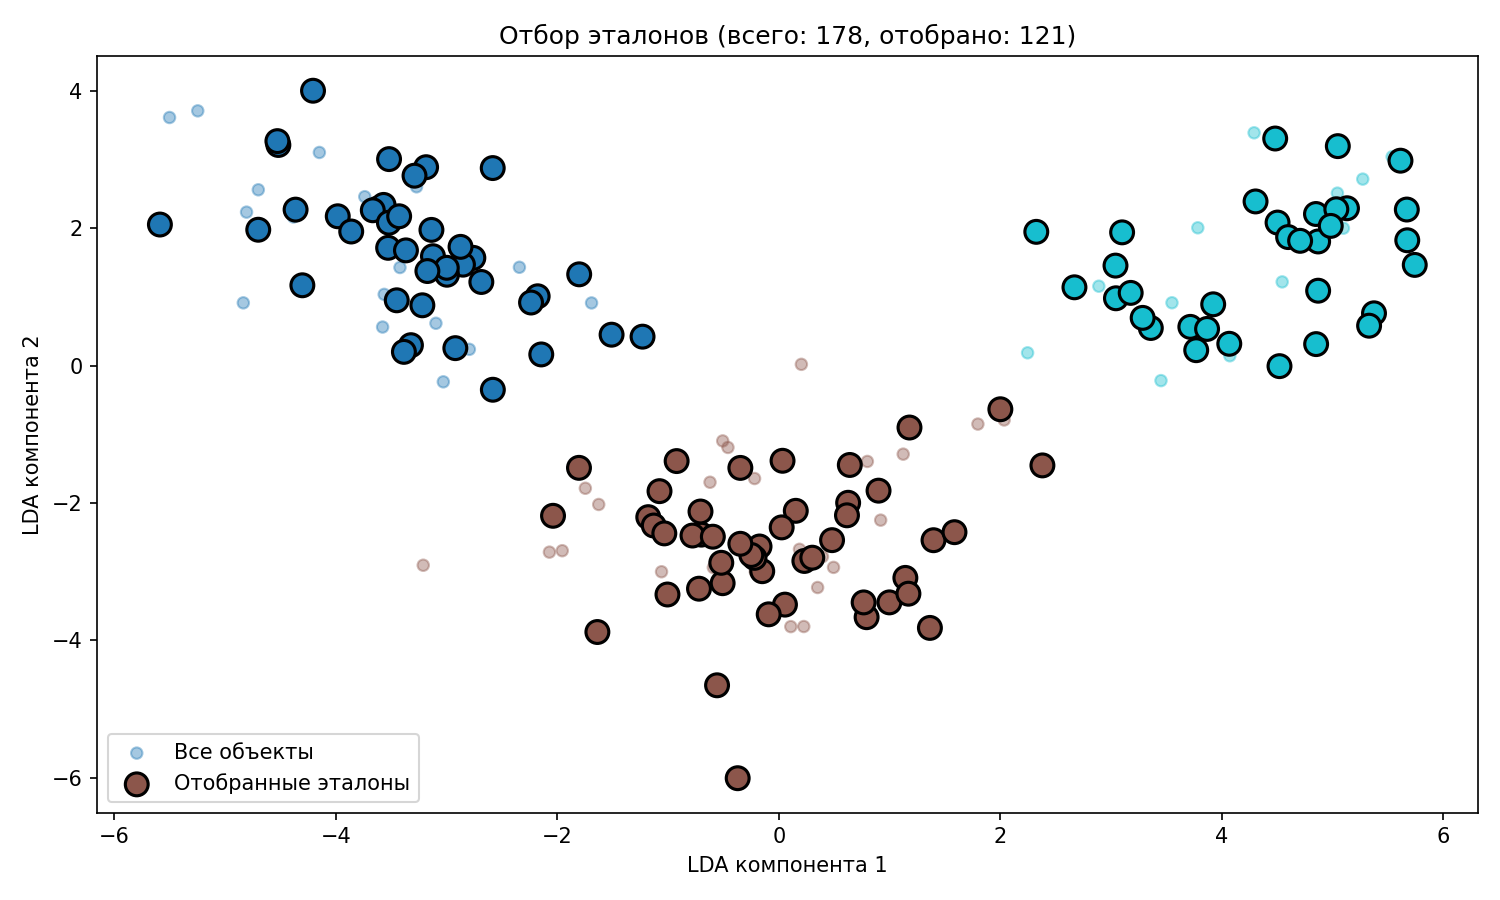
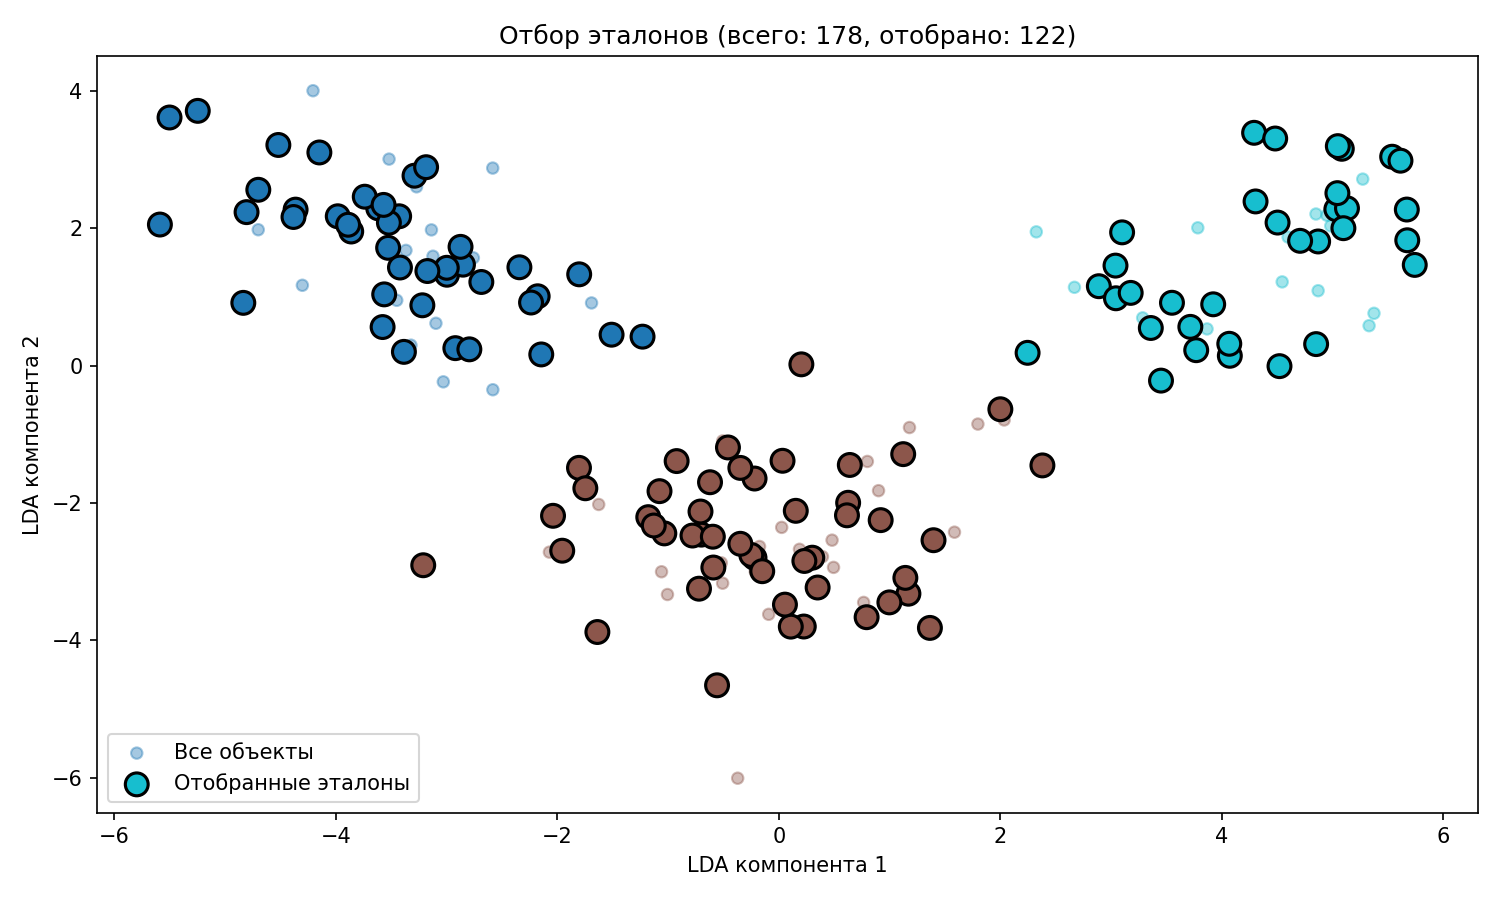
fix

diff --git a/students/botygin-gv/lab2/source/selection.py b/students/botygin-gv/lab2/source/selection.py
@@ -1,83 +1,41 @@
 import numpy as np
 from models import ParzenWindowKNN
+from evaluation import loo_validate
 
 
 class PrototypeSelection:
-    """
-    Алгоритм отбора эталонов (Hart's algorithm).
-    """
+
     def __init__(self):
         pass
 
     def fit(self, X, y):
-        self.X_train = np.array(X)
-        self.y_train = np.array(y)
-        return self._reduce_dataset()
+        X = np.array(X)
+        y = np.array(y)
+        n = len(X)
+        keep = np.ones(n, dtype=bool)
+        best_error = loo_validate(X, y, 1, ParzenWindowKNN)
 
-    def _reduce_dataset(self):
-        X_reduced, y_reduced = self._initialize_boundary_set()
-        if len(X_reduced) == 0:
-            return self.X_train, self.y_train
-
-        while True:
+        changed = True
+        while changed:
             changed = False
-            for i in range(len(X_reduced) - 1, -1, -1):
-                X_temp = np.delete(X_reduced, i, axis=0)
-                y_temp = np.delete(y_reduced, i)
+            current_indices = np.where(keep)[0]
+            if len(current_indices) <= 1:
+                break
+
+            for idx in reversed(current_indices):
+                temp_keep = keep.copy()
+                temp_keep[idx] = False
+                X_temp = X[temp_keep]
+                y_temp = y[temp_keep]
+
                 if len(X_temp) == 0:
+                    continue
+
+                error = loo_validate(X_temp, y_temp, 1, ParzenWindowKNN)
+                if error < best_error:
+                    best_error = error
+                    keep[idx] = False
+                    changed = True
                     break
 
-                knn_temp = ParzenWindowKNN(k=1)
-                knn_temp.fit(X_temp, y_temp)
-                pred = knn_temp.predict([X_reduced[i]])
-                if pred[0] != y_reduced[i]:
-                    X_reduced = np.delete(X_reduced, i, axis=0)
-                    y_reduced = np.delete(y_reduced, i)
-                    changed = True
-            if not changed:
-                break
-        return X_reduced, y_reduced
-
-    def _initialize_boundary_set(self):
-        """
-        Инициализация набора граничных точек.
-        Для каждой точки из класса A находим ближайшую точку из другого класса B.
-        Добавляем обе точки (A и B).
-        """
-        X_boundary = []
-        y_boundary = []
-        n_samples = self.X_train.shape[0]
-
-        for i in range(n_samples):
-            x_i = self.X_train[i]
-            y_i = self.y_train[i]
-
-            # Находим ближайшую точку из другого класса
-            min_dist = np.inf
-            nearest_other_idx = -1
-
-            for j in range(n_samples):
-                if self.y_train[j] != y_i:
-                    dist = np.linalg.norm(x_i - self.X_train[j])
-                    if dist < min_dist:
-                        min_dist = dist
-                        nearest_other_idx = j
-
-            if nearest_other_idx != -1:
-                X_boundary.append(x_i)
-                y_boundary.append(y_i)
-                X_boundary.append(self.X_train[nearest_other_idx])
-                y_boundary.append(self.y_train[nearest_other_idx])
-
-        if len(X_boundary) > 0:
-            X_boundary = np.array(X_boundary)
-            y_boundary = np.array(y_boundary)
-            # Используем уникальные строки
-            _, unique_indices = np.unique(X_boundary, axis=0, return_index=True)
-            X_boundary = X_boundary[unique_indices]
-            y_boundary = y_boundary[unique_indices]
-        else:
-            X_boundary = np.array(X_boundary)
-            y_boundary = np.array(y_boundary)
-
-        return X_boundary, y_boundary
+        return X[keep], y[keep]

diff --git a/students/botygin-gv/lab2/source/main.py b/students/botygin-gv/lab2/source/main.py
@@ -14,8 +14,8 @@ IMAGES_DIR = os.path.join(os.path.dirname(__file__), "images")
 os.makedirs(IMAGES_DIR, exist_ok=True)
 
 
-def compare_with_sklearn(X_train, y_train, X_test, y_test):
-    sk_knn = KNeighborsClassifier(n_neighbors=3)
+def compare_with_sklearn(X_train, y_train, X_test, y_test, k=3):
+    sk_knn = KNeighborsClassifier(n_neighbors=k)
     sk_knn.fit(X_train, y_train)
     sk_pred = sk_knn.predict(X_test)
     sk_accuracy = np.mean(sk_pred == y_test)
@@ -29,7 +29,7 @@ def main():
     X = scaler.fit_transform(X)
 
     # Подбор параметра k методом LOO
-    k_range = range(1, min(31, len(X)))
+    k_range = range(1, min(40, len(X)))
     print("Подбор оптимального k с помощью LOO")
     errors = loo_cross_validation(X, y, k_range, ParzenWindowKNN)
     optimal_k = k_range[np.argmin(errors)]
@@ -38,7 +38,7 @@ def main():
     plot_risk(errors, k_range)
 
     X_train, X_test, y_train, y_test = train_test_split(
-        X, y, test_size=0.3, random_state=42, stratify=y
+        X, y, test_size=0.3, random_state=0, stratify=y
     )
 
     knn = ParzenWindowKNN(k=optimal_k)
@@ -48,7 +48,7 @@ def main():
     print(f"\nТочность ParzenWindowKNN (k={optimal_k}): {accuracy:.4f}")
 
     # Сравнение с sklearn
-    sk_accuracy = compare_with_sklearn(X_train, y_train, X_test, y_test)
+    sk_accuracy = compare_with_sklearn(X_train, y_train, X_test, y_test, k=optimal_k)
     print(f"Точность sklearn KNeighborsClassifier: {sk_accuracy:.4f}")
 
     # Отбор эталонов

diff --git a/students/botygin-gv/lab2/source/evaluation.py b/students/botygin-gv/lab2/source/evaluation.py
@@ -1,19 +1,24 @@
 from sklearn.model_selection import LeaveOneOut
 
 
+def loo_validate(X, y, k, model_class, **model_kwargs):
+    loo = LeaveOneOut()
+    correct = 0
+    for train_index, test_index in loo.split(X):
+        knn = model_class(k=k, **model_kwargs)
+        X_train_loo, X_test_loo = X[train_index], X[test_index]
+        y_train_loo, y_test_loo = y[train_index], y[test_index]
+        knn.fit(X_train_loo, y_train_loo)
+        pred = knn.predict(X_test_loo)
+        if pred[0] == y_test_loo[0]:
+            correct += 1
+    error = 1 - correct / len(X)
+    return error
+
+
 def loo_cross_validation(X, y, k_range, model_class, **model_kwargs):
     errors = []
     for k in k_range:
-        loo = LeaveOneOut()
-        correct = 0
-        for train_index, test_index in loo.split(X):
-            knn = model_class(k=k, **model_kwargs)
-            X_train_loo, X_test_loo = X[train_index], X[test_index]
-            y_train_loo, y_test_loo = y[train_index], y[test_index]
-            knn.fit(X_train_loo, y_train_loo)
-            pred = knn.predict(X_test_loo)
-            if pred[0] == y_test_loo[0]:
-                correct += 1
-        error = 1 - correct / len(X)
+        error = loo_validate(X, y, k, model_class, **model_kwargs)
         errors.append(error)
     return errors

diff --git a/students/botygin-gv/lab2/source/models.py b/students/botygin-gv/lab2/source/models.py
@@ -23,7 +23,7 @@ class ParzenWindowKNN:
         for x in X_test:
             distances = np.linalg.norm(self.X_train - x, axis=1)
             sorted_indices = np.argsort(distances)
-            h = distances[sorted_indices[self.k+1]]
+            h = distances[sorted_indices[self.k]]
 
             if h == 0:
                 nearest_idx = np.argmin(distances)

diff --git a/students/botygin-gv/lab2/source/kernels.py b/students/botygin-gv/lab2/source/kernels.py
@@ -2,4 +2,4 @@ import numpy as np
 
 
 def gaussian_kernel(x):
-    return np.exp(-0.5 * x ** 2)
+    return np.exp(-2 * x ** 2)

diff --git a/students/botygin-gv/lab2/README.md b/students/botygin-gv/lab2/README.md
@@ -28,25 +28,26 @@
   - 13 признаков,  
   - 3 класса.
 
+К данным был применен StandartScaler для нормализации распределений признаков, что устраняет искажение расстояний из-за разных масштабов признаков
+
 ### Подбор k методом LOO
 
-Оптимальное значение: k=1
-
-Это может быть обусловлено тем, что исходный датасет хорошо разделим и практически не содержит шума или выбросов. В экспериментах с искусственно зашумлёнными данными оптимальное значение 
-k обычно лежало в диапазоне от 3 до 5.
+Оптимальное значение: k=31
 
 График эмпирического риска для различных значений k
 ![](./source/images/risk.png)
+На графике риска видно плато с k=3 до k=30, после чего значение ошибки снижается
 
 ### Результаты
 
-Реализация `ParzenWindowKNN` (k=1): 0.7037<br>
-Эталонная реализация `sklearn.neighbors.KNeighborsClassifier`: 0.6852
+Реализация `ParzenWindowKNN` (k=31): 0.98<br>
+Эталонная реализация `sklearn.neighbors.KNeighborsClassifier`: 0.98
+Реализованный алгоритм показывает точность аналогичную эталонной реализации
 
 ### Отбор эталонов
-Был реализован жадный отбор эталонов по критерию CCV. После применения алгоритма количество объектов в датасете сократилось с 178 до 66
+Был реализован жадный отбор эталонов по критерию CCV. После применения алгоритма количество объектов в датасете сократилось с 124 до 122
 
-После применения алгоритма точность классификатора возрасла до 0.8148
+После применения алгоритма точность классификатора не изменилась
 
 Визуализация алгоритма отбора эталонов (приведена к двумерному виду методом LinearDiscriminantAnalysis)
 ![](./source/images/prototype_selection.png)
